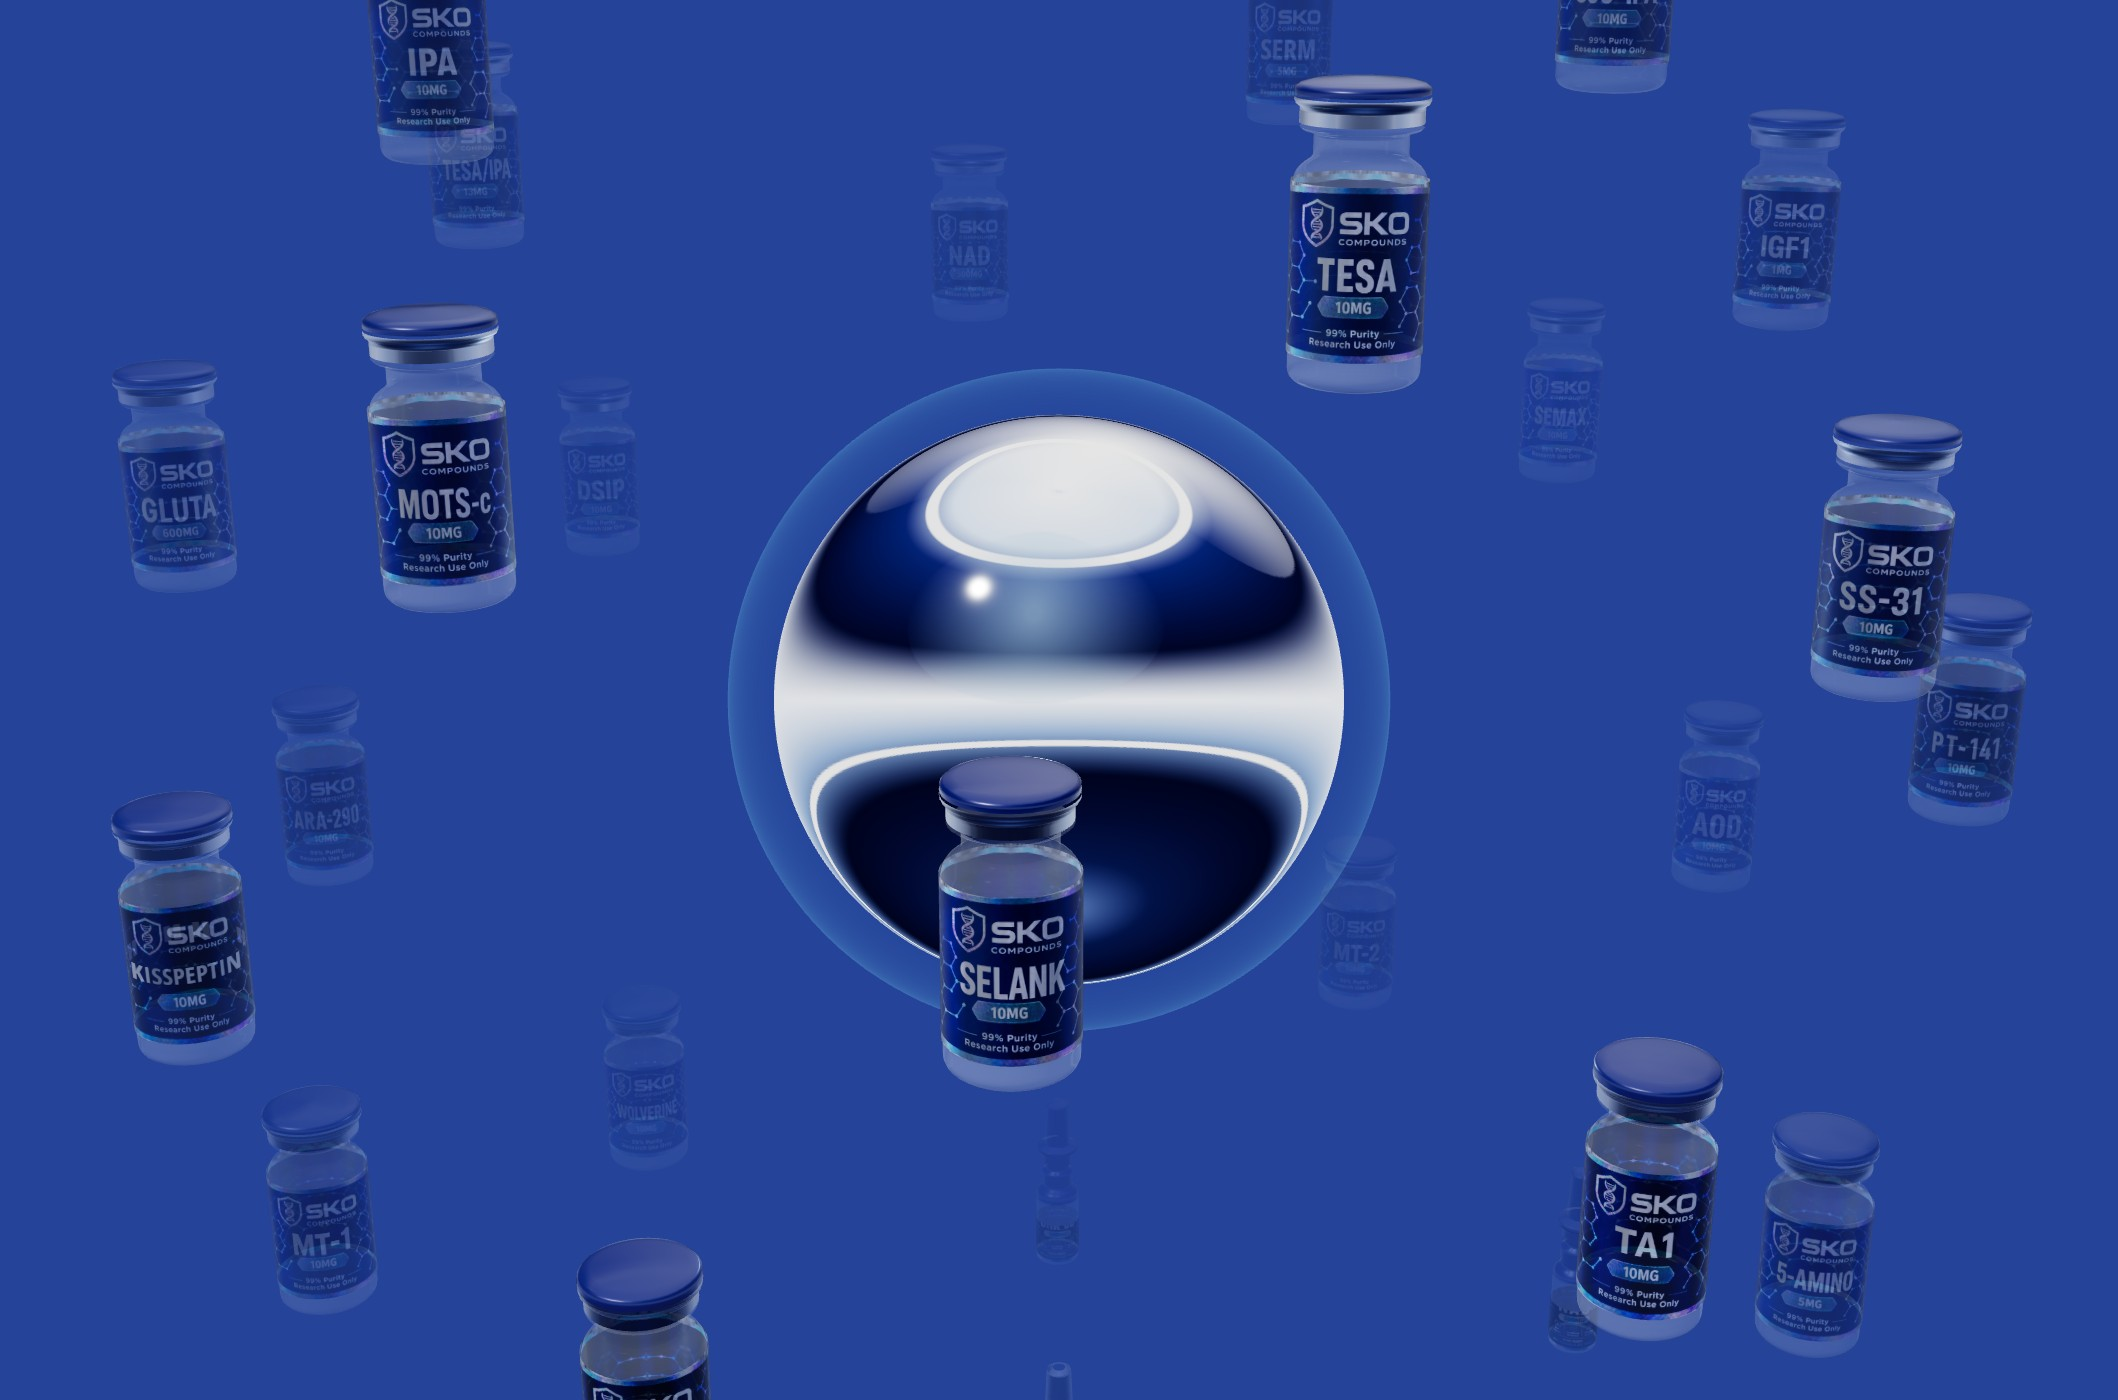
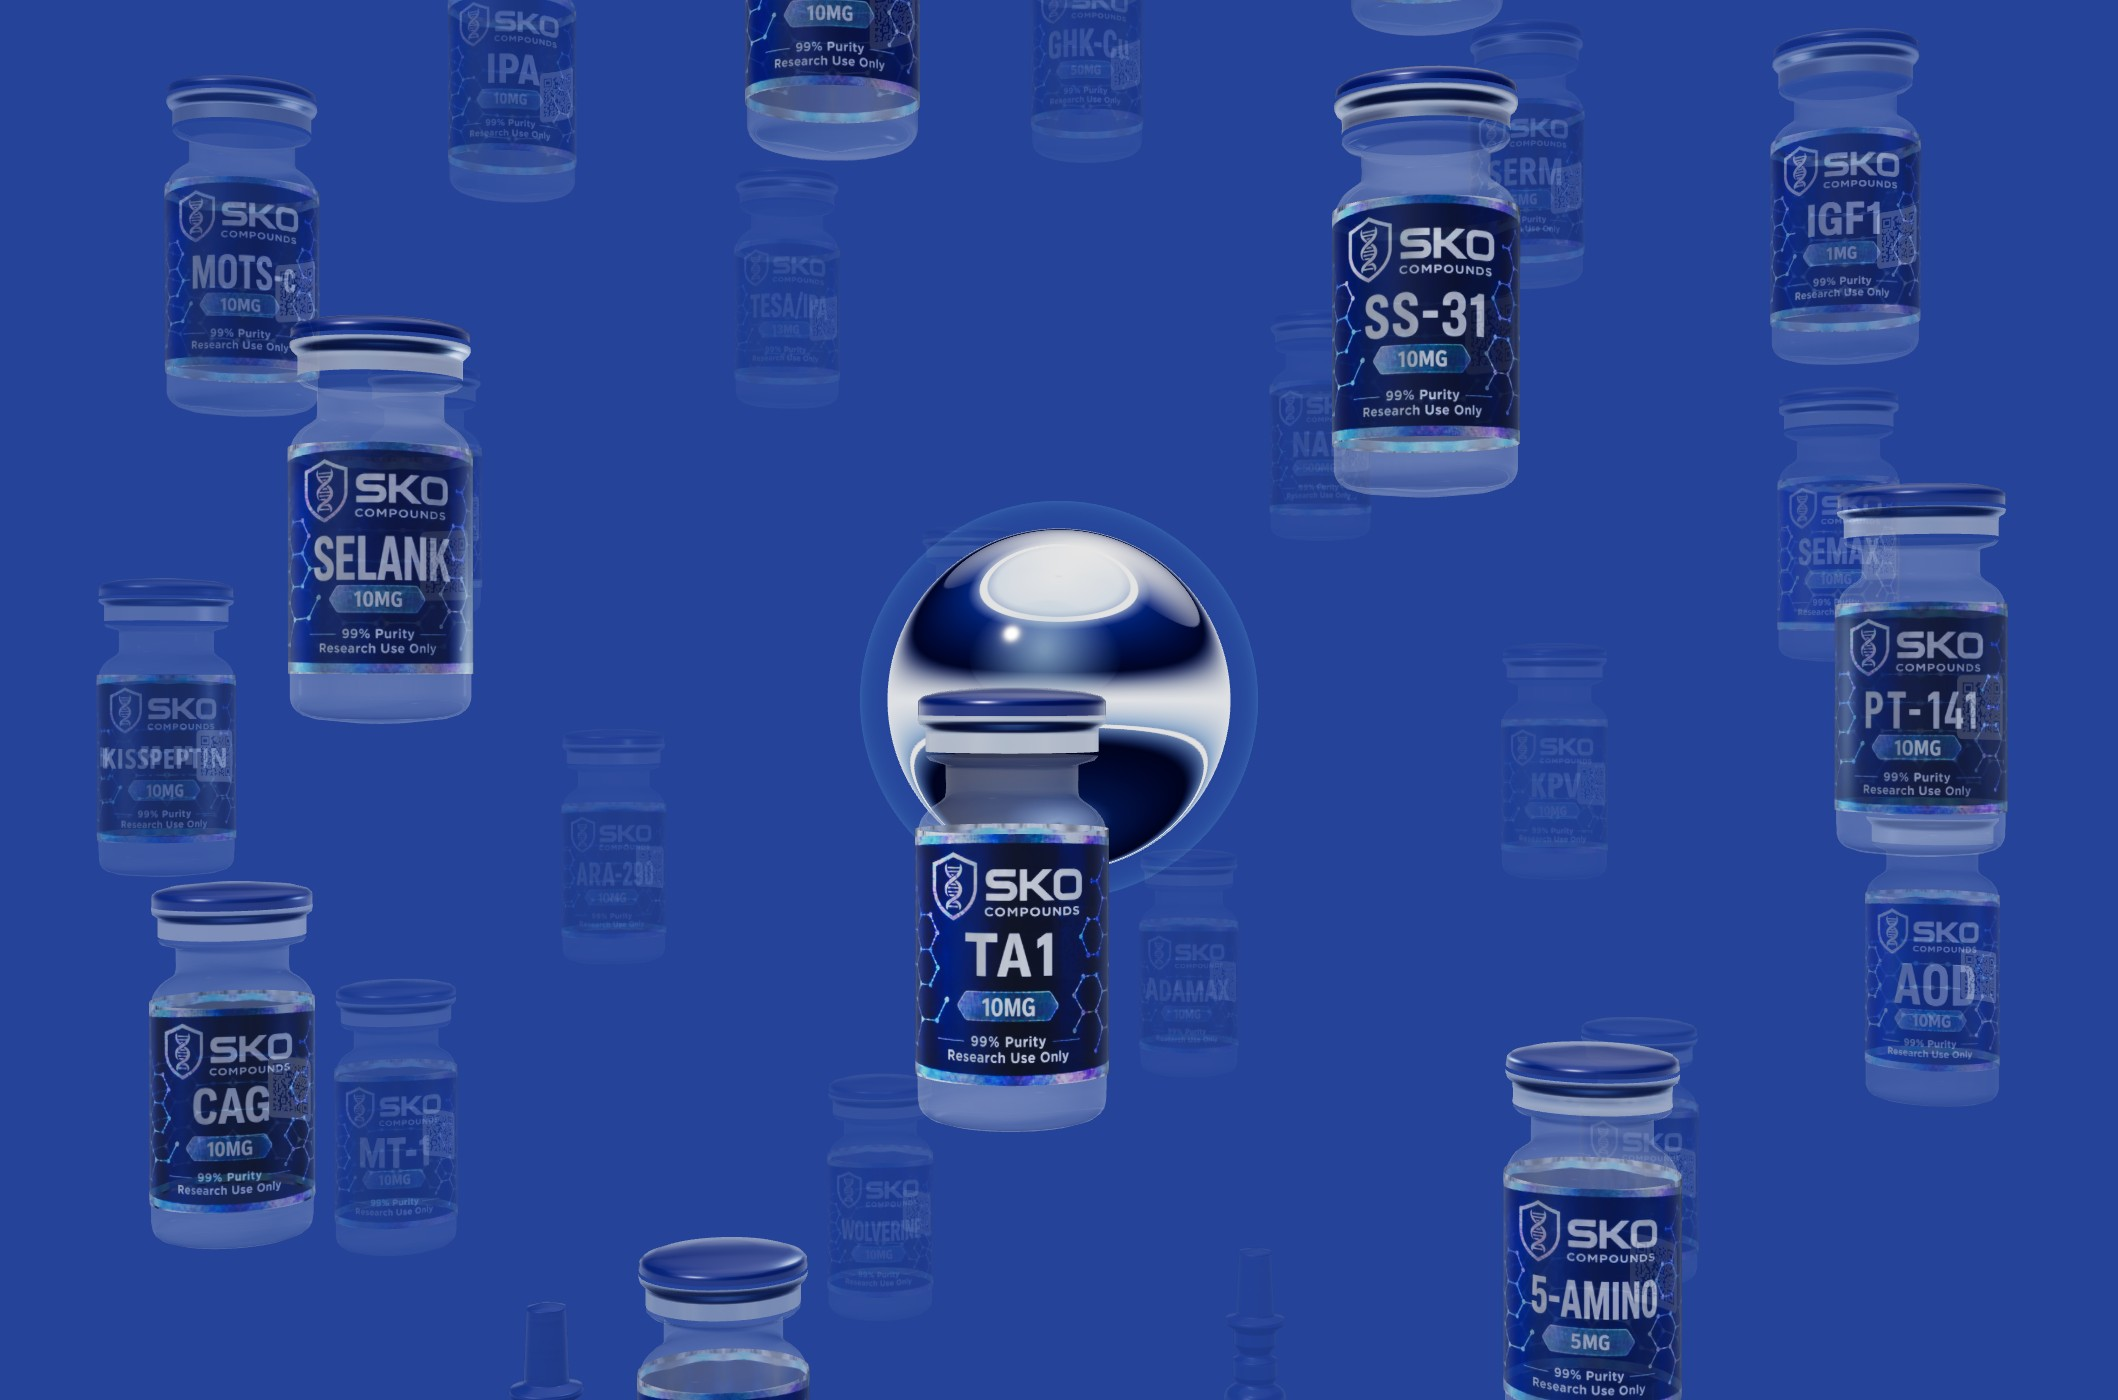
Tighten the Array, and take the core out of the spotlight
Orbit radius 7.9 -> 5.85, so the units sit close instead of drifting
apart, with the camera pulled in to 17.4 to keep the array filling the
frame. Spacing per unit goes from about 4.8 to 3.5.

The core was the loudest thing in the module and it is furniture, not
the subject: radius 2.55 -> 1.14, and the fresnel shell down from 0.48
to 0.32. It now sits behind the front unit rather than in front of the
catalogue. The vials are the subject.

Refreshes img/world/array-3d.jpg to the new composition.

diff --git a/js/sphere.js b/js/sphere.js
@@ -37,7 +37,7 @@ function start(host) {
 
   const scene = new THREE.Scene();
   const camera = new THREE.PerspectiveCamera(30, 1, 0.1, 200);
-  camera.position.set(0, 0, 23.5);
+  camera.position.set(0, 0, 17.4);
 
   /* ---- the room the glass and metal reflect ---- */
   (function env() {
@@ -74,7 +74,7 @@ function start(host) {
   scene.add(new THREE.PointLight(0x9DBFD9, 44, 30, 2));
 
   /* ---- the core ---- */
-  const CORE_R = 2.55;
+  const CORE_R = 1.14;
   const core = new THREE.Mesh(
     new THREE.SphereGeometry(CORE_R, 96, 96),
     new THREE.MeshPhysicalMaterial({
@@ -97,7 +97,7 @@ function start(host) {
           gl_Position = projectionMatrix * mv; }`,
       fragmentShader: `uniform vec3 c; varying vec3 vN; varying vec3 vP;
         void main(){ float f = pow(1.0 - abs(dot(normalize(vN), normalize(-vP))), 3.6);
-          gl_FragColor = vec4(c, f * 0.48); }`,
+          gl_FragColor = vec4(c, f * 0.32); }`,
     }));
   scene.add(glow);
 
@@ -183,7 +183,7 @@ function start(host) {
   }
 
   /* ---- the units, on a Fibonacci sphere so spacing stays even ---- */
-  const R = 7.9;
+  const R = 5.85;
   const loader = new THREE.TextureLoader();
   const orbit = new THREE.Group(); scene.add(orbit);
   const units = [];

diff --git a/index.html b/index.html
@@ -218,7 +218,7 @@ img{display:block;max-width:100%}
   <div class="foot"><span class="l"><img src="img/shield.png" alt="">SKO BRAND BOOK</span><span>IDENTITY</span></div>
 </div>
 
-<script type="module" src="js/sphere.js?v=3d5"></script>
+<script type="module" src="js/sphere.js?v=3d8"></script>
 <script defer src="js/helix.js"></script>
 
 <!-- 06 helix -->
